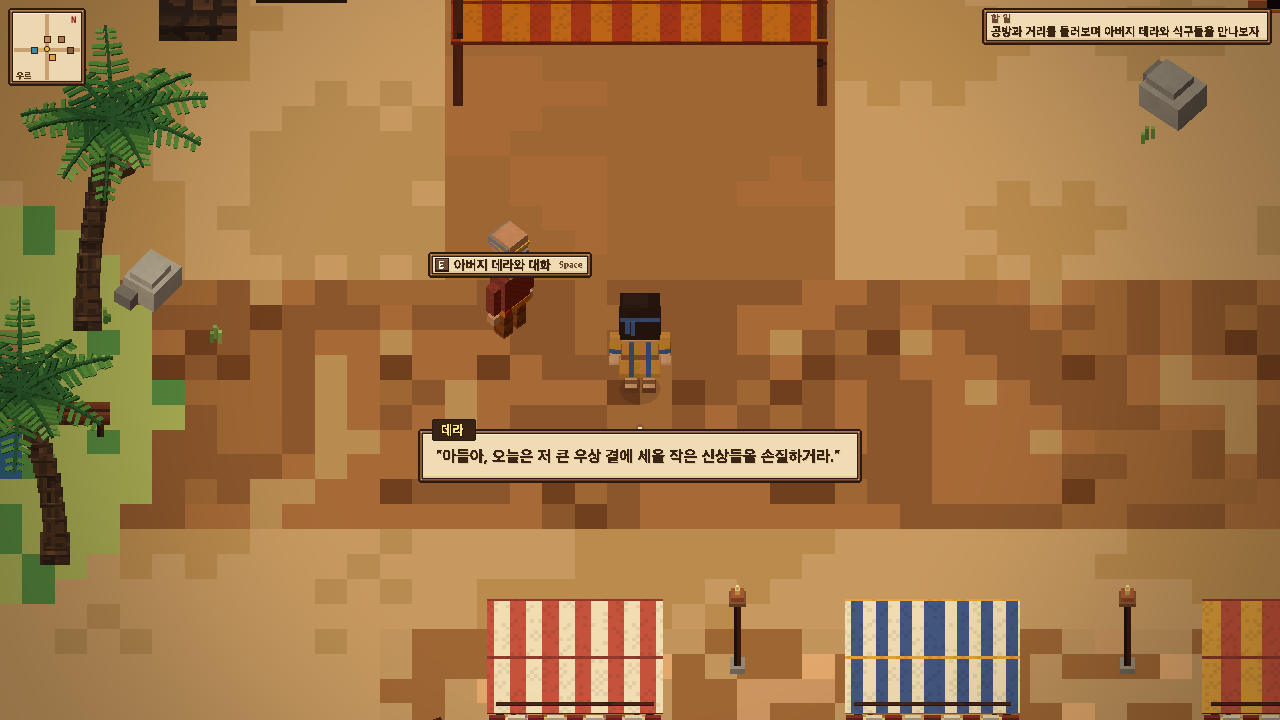
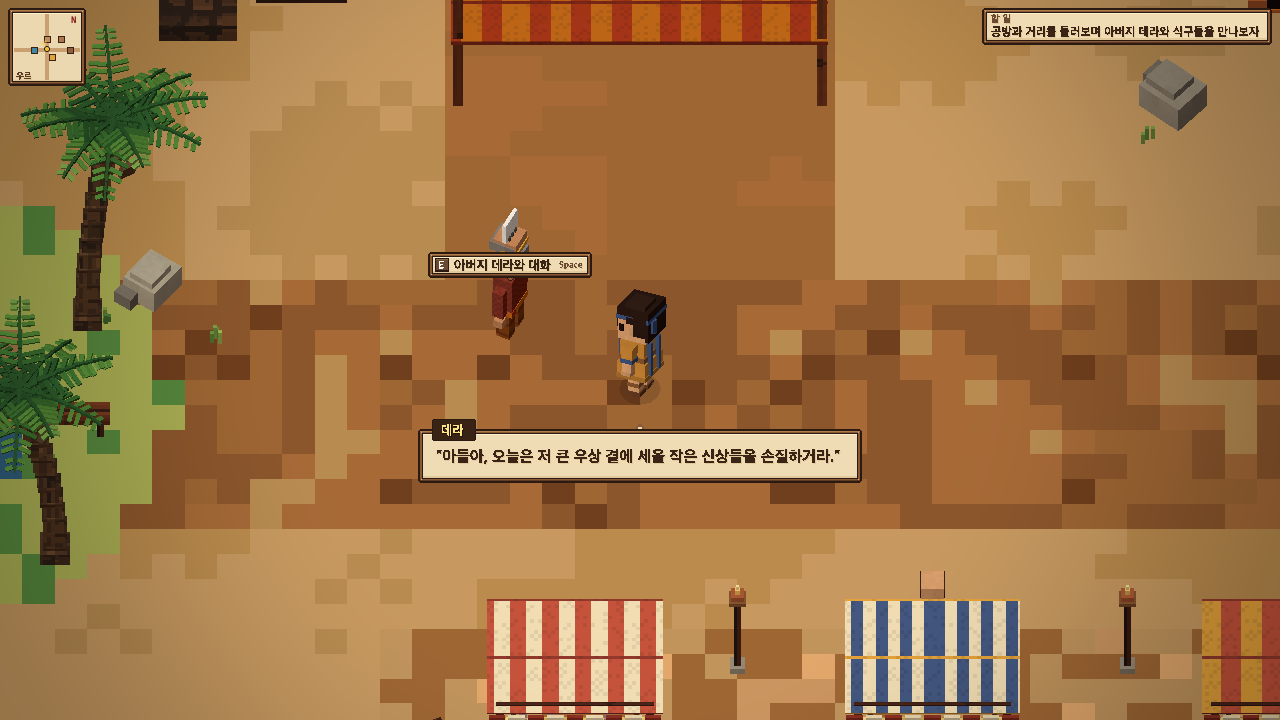
feat(interaction): 대화 시 NPC와 플레이어가 서로 마주보도록 양방향 회전 및 감정 이모트 구현
- 플레이어가 상호작용(E키/클릭)할 때 상호작용 대상을 정면으로 바라보도록 회전 처리
- 대화 시작 시 NPC(데라, 롯, 사래, 상인)가 플레이어(아브람)의 위치를 향해 즉시 몸을 돌리고 감정 말풍선('...', '!', 'anger') 출력
- 시장 상인 3D 복셀 NPC 추가 및 회전/대화 상호작용 연결
- 브라우저 QA 검증 스크린샷 갱신 (06_talk_terah, 07_talk_lot, 08_talk_sarai)

diff --git a/src/systems/actions/book1Actions.ts b/src/systems/actions/book1Actions.ts
@@ -39,6 +39,21 @@ export function setupBook1Actions(ctx: Book1ActionContext): void {
 
   const WX = 0, WZ = -7;
 
+  // 대화 시 NPC와 아브람이 서로를 정면으로 바라봄 ("대화를 하면 캐릭터 쪽으로 돌아보기")
+  const faceEachOther = (actorId: string, emote?: '!' | '?' | '...' | 'heart' | 'anger' | 'sweat') => {
+    const actor = urStage.actors.find((a) => a.id === actorId);
+    const p = sceneCtx.player;
+    if (actor) {
+      // 1) NPC가 아브람(주인공) 쪽으로 돌아봄!
+      actor.face({ x: p.root.position.x, z: p.root.position.z });
+      if (emote) actor.showBubble(emote, 2.5);
+    }
+    // 2) 아브람(주인공)도 NPC 쪽으로 돌아봄!
+    if (actor && 'faceTo' in p) {
+      p.faceTo(actor.root.position.x, actor.root.position.z);
+    }
+  };
+
   // ─────────────────────────────────────────────────────────────
   // 1. 공방 및 시가지 NPC들 (데라, 롯, 사래, 시장 상인)
   // ─────────────────────────────────────────────────────────────
@@ -51,6 +66,7 @@ export function setupBook1Actions(ctx: Book1ActionContext): void {
     label: () => (placedAxeOnBigIdol ? '데라와 담판 짓기' : '아버지 데라와 대화'),
     act: () => {
       if (placedAxeOnBigIdol) {
+        faceEachOther('terah', 'anger');
         audio.playSfx('ui_confirm');
         hud.toast('terah', null, '데라: "네 놈이 나를 놀리느냐! 우상이 어떻게 움직이며 어떻게 도끼를 든단 말이냐!"');
         setTimeout(() => {
@@ -61,6 +77,7 @@ export function setupBook1Actions(ctx: Book1ActionContext): void {
       }
 
       talkedToFamily++;
+      faceEachOther('terah', '...');
       audio.playSfx('ui_confirm');
       hud.toast('terah', null, '데라: "아들아, 오늘은 저 큰 우상 곁에 세울 작은 신상들을 손질하거라."');
       checkIntroProgress();
@@ -76,6 +93,7 @@ export function setupBook1Actions(ctx: Book1ActionContext): void {
     label: () => '조카 롯과 대화',
     act: () => {
       talkedToFamily++;
+      faceEachOther('lot', '!');
       audio.playSfx('ui_confirm');
       hud.toast('lot', null, '롯: "삼촌! 성문 밖 낙타 대상들이 싣고 온 신기한 물건들을 보셨어요?"');
       checkIntroProgress();
@@ -91,6 +109,7 @@ export function setupBook1Actions(ctx: Book1ActionContext): void {
     label: () => '사래와 대화',
     act: () => {
       talkedToFamily++;
+      faceEachOther('sarai', '...');
       audio.playSfx('ui_confirm');
       hud.toast('sarai', null, '사래: "아브람, 마을 사람들은 보지도 듣지도 못하는 우상이 복을 준다고 믿는 걸까요..."');
       checkIntroProgress();
@@ -105,6 +124,7 @@ export function setupBook1Actions(ctx: Book1ActionContext): void {
     r: 1.8,
     label: () => '장터 상인과 대화',
     act: () => {
+      faceEachOther('merchant', '!');
       audio.playSfx('ui_confirm');
       hud.toast('merchant', null, '상인: "티그리스와 유프라테스의 단 대추야자와 석류가 방금 들어왔소!"');
     },

diff --git a/src/game/createGame.ts b/src/game/createGame.ts
@@ -409,6 +409,10 @@ export function createGame(): void {
     panelOpen: () => panels.anyOpen() || hud.chapterSelect.open || hud.pauseMenu.open,
     transitioning: () => false,
     aim: () => aimed,
+    onAct: (a) => {
+      const p = a.pos();
+      player.faceTo(p.x, p.z);
+    },
     onActError: () => hud.toast('act-error', null, '문제가 생겨 행동을 마치지 못했다', 0, 5),
     openChapterSelect: () => {
       hud.chapterSelect.bookIndex = curBook;

diff --git a/src/world/stages/ur.ts b/src/world/stages/ur.ts
@@ -331,6 +331,13 @@ export function buildUrStage(): UrStage {
   col.addCircle(11.5, -4.0, 0.45);
   actors.push(saraiActor);
 
+  const merchantActor = new Actor('merchant', 'citizen');
+  merchantActor.root.position.set(4.5, 0, 9.0);
+  merchantActor.face(0);
+  root.add(merchantActor.root);
+  col.addCircle(4.5, 9.0, 0.45);
+  actors.push(merchantActor);
+
   root.add(b.build());
 
   return {
